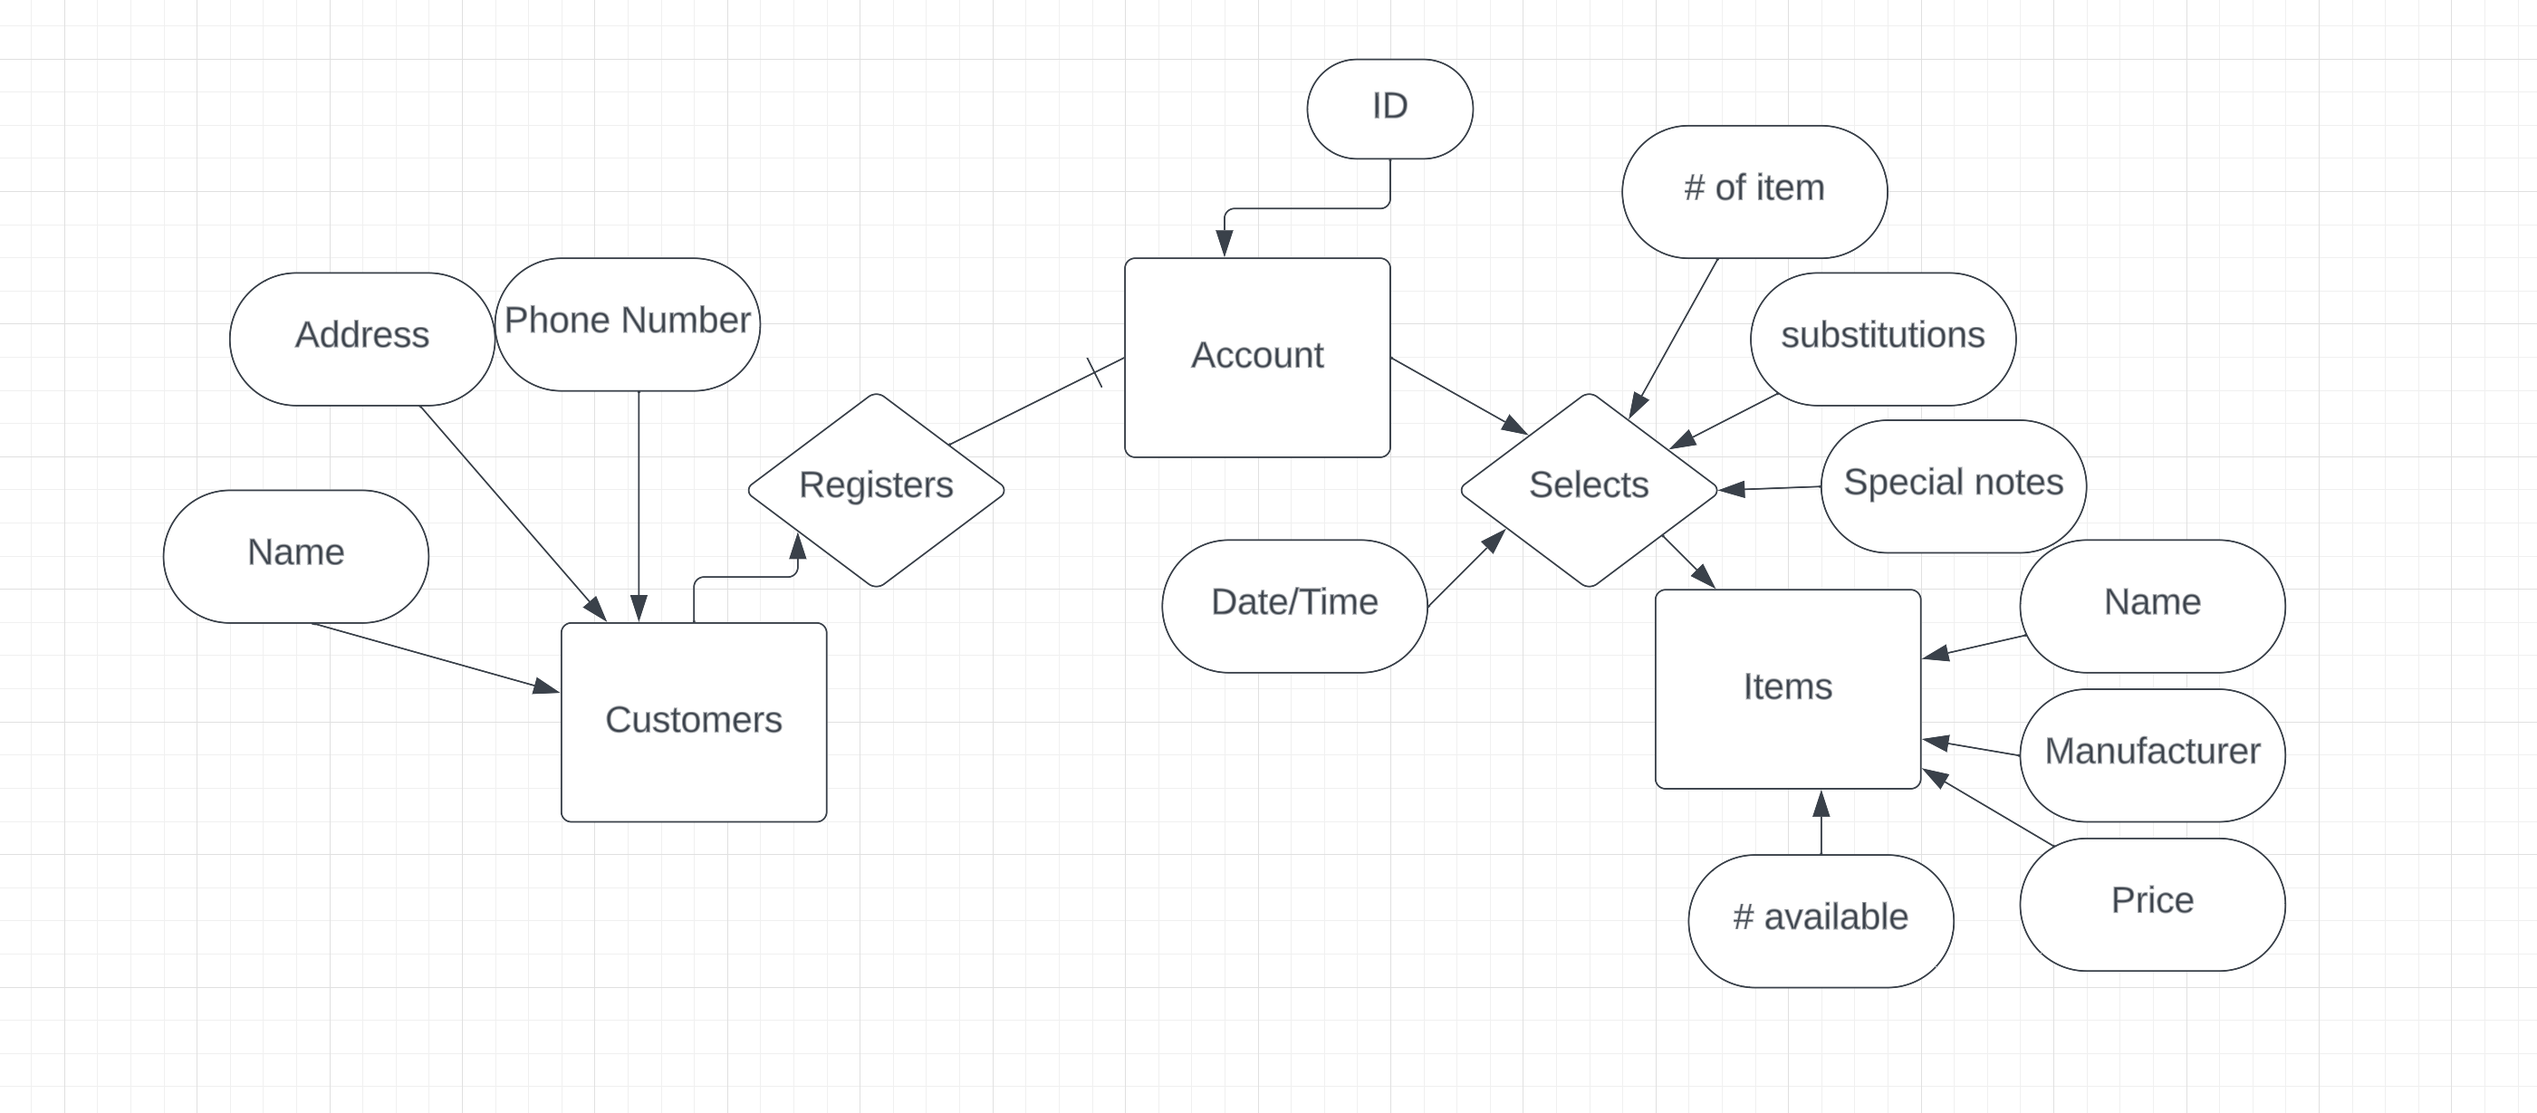
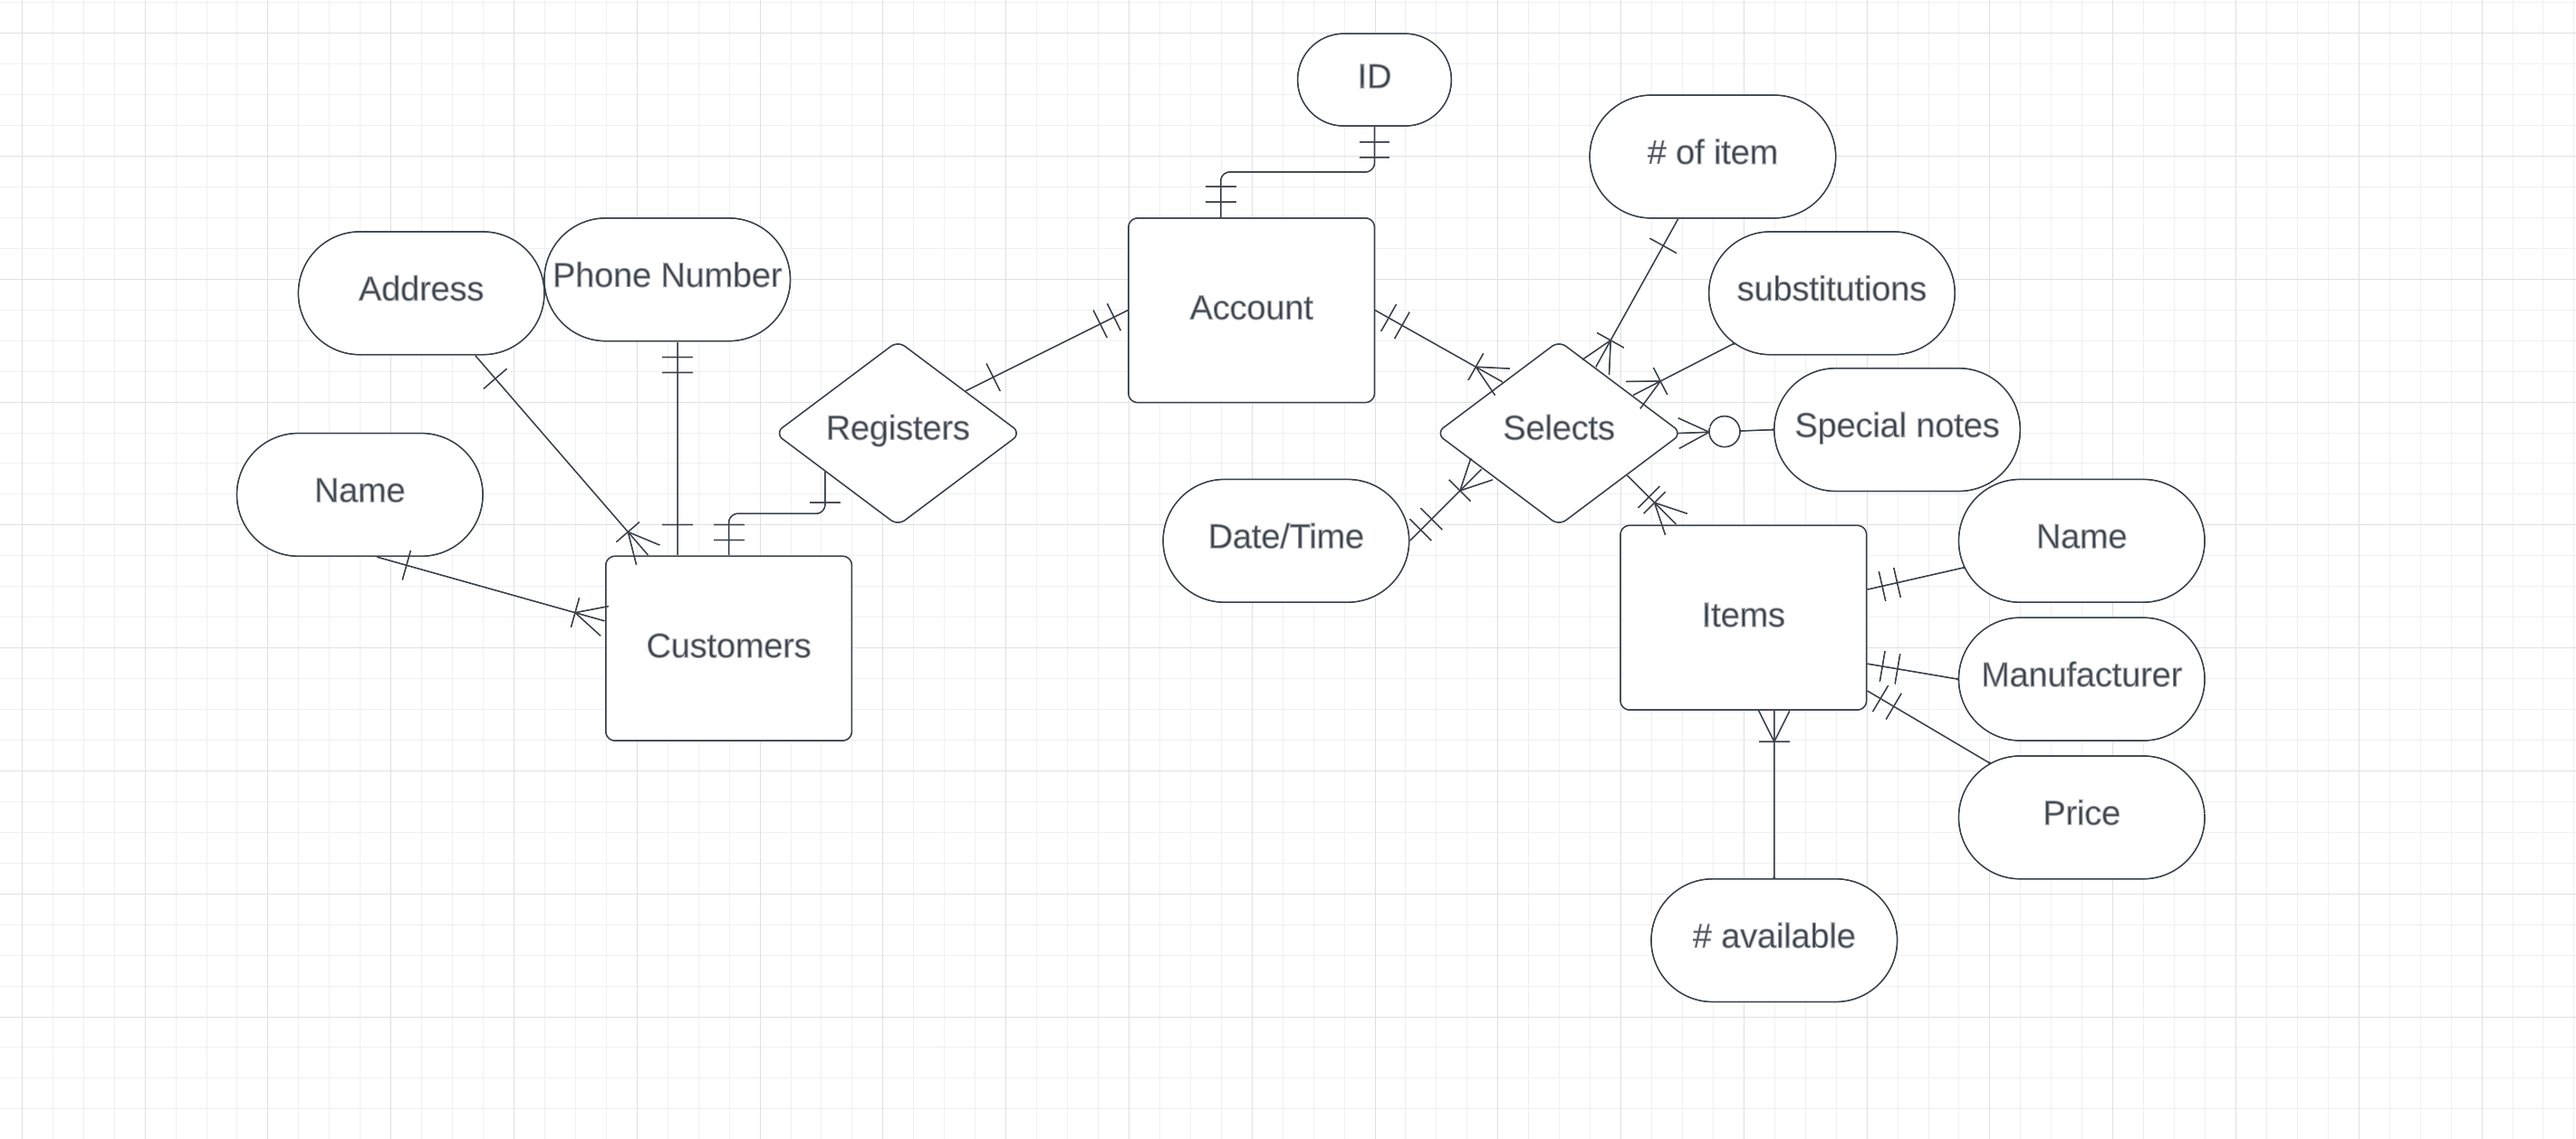
Fixed screw ups and added more images

diff --git a/_posts/2023-09-25-first-foray-into-sql.md b/_posts/2023-09-25-first-foray-into-sql.md
@@ -6,11 +6,13 @@ author:
 
 This post marks my first foray into creating SQL schemas using Vertabelo and ERD using LucidChart. Though it isn't necessarily hard to create a database at this point, it is a bit more difficult to read between the lines of the client communication that you're given. The first thing that I created was my ERD, which is displayed below this.
 
-![The LucidChart ERD:]({{ "/assets/images/LucidChartGrocery.PNG" | relative_url }} "LucidChart"){: width="500"}
+![The LucidChart ERD:]({{ "/assets/images/LucidChartGrocery.PNG" | relative_url }} "LucidChart"){: width="750"}
 
 I'm fairly confident in my organization of the ERD because it only has 3 categories. Attributes are easy to figure out, but entities versus relationships are a bit more difficult. The best sort of rule of thumb for entities/relationships that I have is that the relationships require the existence of at least two entities.
 
-The vertabelo schema was quite a bit more difficult for me because of the sheer number of options available.
+The vertabelo schema was quite a bit more difficult for me because of the sheer number of options available for the data typing. The fact that I had to make an upfront decision on what I thought would be the best representation of the attributes that I had available was difficult and I had a lot of back and forth before I decided on what was the best one for the database I was developing. Eventually, I got pretty settled on what I thought was the best approach to the information that I was given. Below this is the schema I ended up on.
 
-![The Vertabelo Schema:]({{ "/assets/images/Vertabelo.PNG" | relative_url }} "Vertabelo"){: width = "500"}
+![The Vertabelo Schema:]({{ "/assets/images/VertabeloGrocery.PNG" | relative_url }} "Vertabelo"){: width = "500"}
+
+All in all, SQL simultaneously makes more sense to me while also being a bit more of a pain to plan. Most of this is because of the relationships you have to set up between the tables along with setting the primary key on the tables. It's not that I don't see the usefulness in either of these but rather it just takes sometime for me to sit down and think my way through them at the start rather than making my way through about half the project and then restructuring because I realized I did something wrong. 
 
